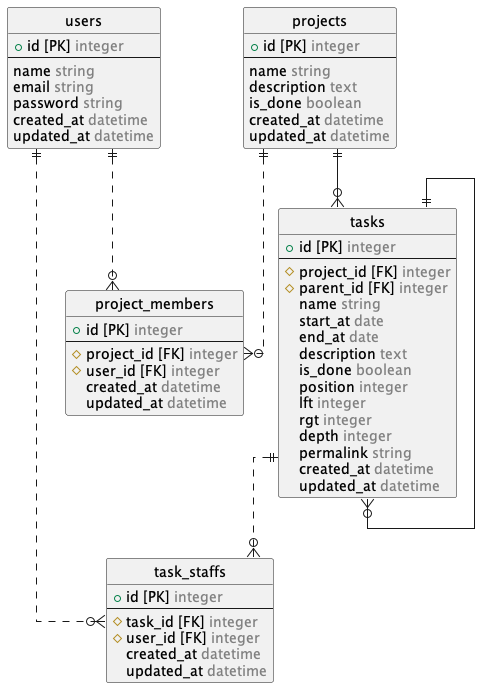
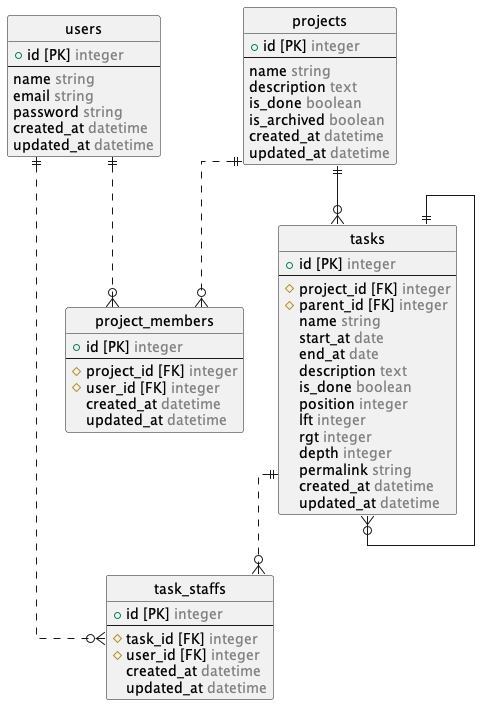
feat: #49 projectsテーブルにis_archivedカラムを追加する

diff --git a/db/schema.rb b/db/schema.rb
@@ -10,7 +10,7 @@
 #
 # It's strongly recommended that you check this file into your version control system.
 
-ActiveRecord::Schema[7.0].define(version: 2023_05_22_073030) do
+ActiveRecord::Schema[7.0].define(version: 2023_06_15_051324) do
   create_table "project_members", charset: "utf8mb4", collation: "utf8mb4_0900_ai_ci", force: :cascade do |t|
     t.integer "project_id"
     t.integer "user_id"
@@ -23,6 +23,7 @@ ActiveRecord::Schema[7.0].define(version: 2023_05_22_073030) do
     t.string "name"
     t.text "description"
     t.boolean "is_done", default: false, null: false
+    t.boolean "is_archived", default: false, null: false
     t.datetime "created_at", null: false
     t.datetime "updated_at", null: false
   end

diff --git a/db/migrate/20230615051324_add_is_archived_to_projects.rb b/db/migrate/20230615051324_add_is_archived_to_projects.rb
@@ -1,0 +1,5 @@
+class AddIsArchivedToProjects < ActiveRecord::Migration[7.0]
+  def change
+    add_column :projects, :is_archived, :boolean, after: :is_done, null: false, default: false
+  end
+end
